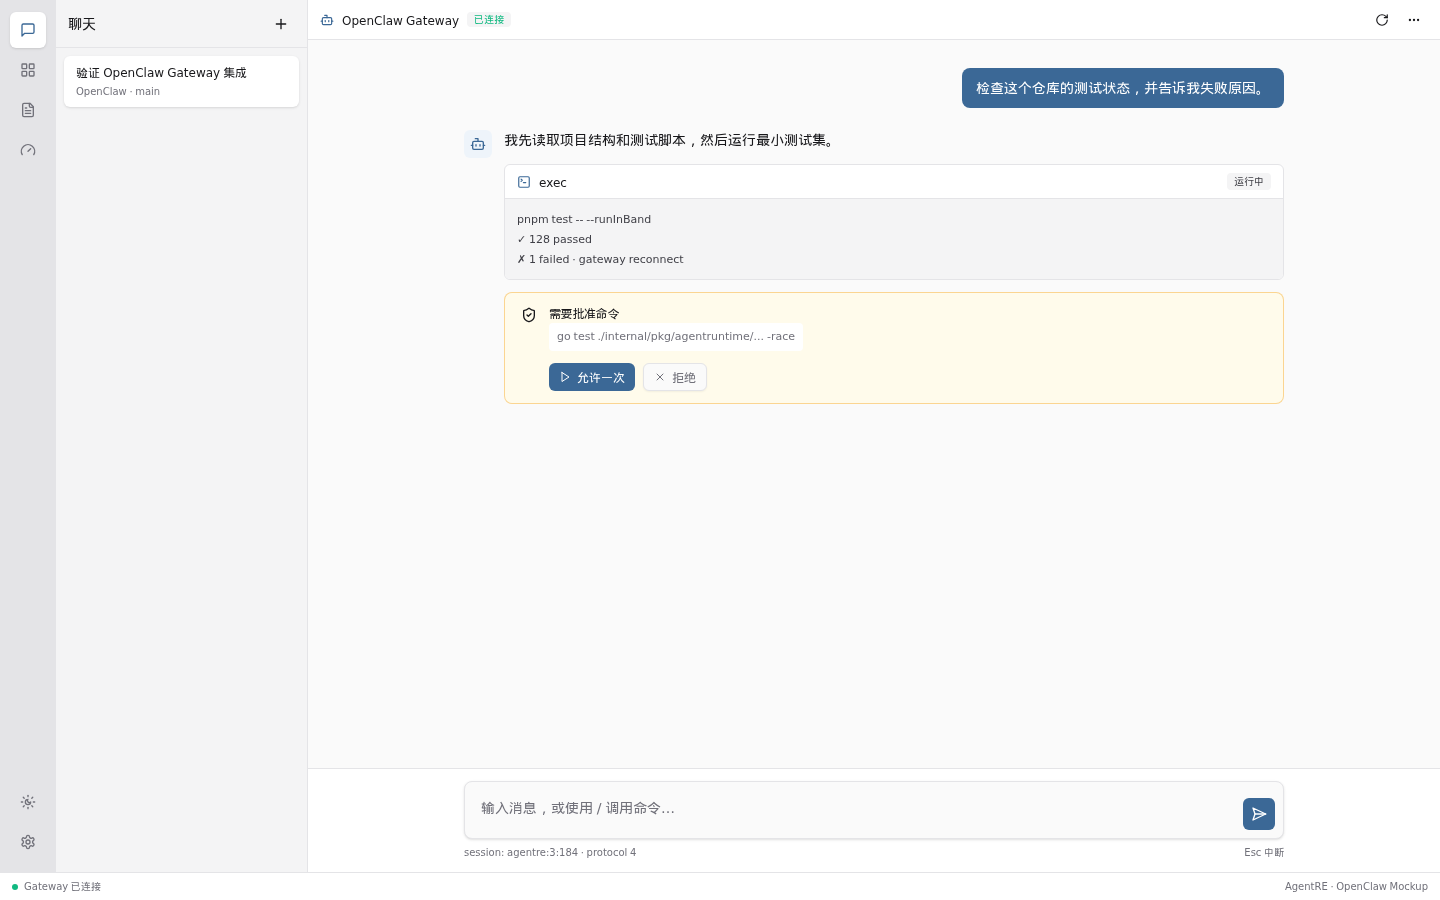
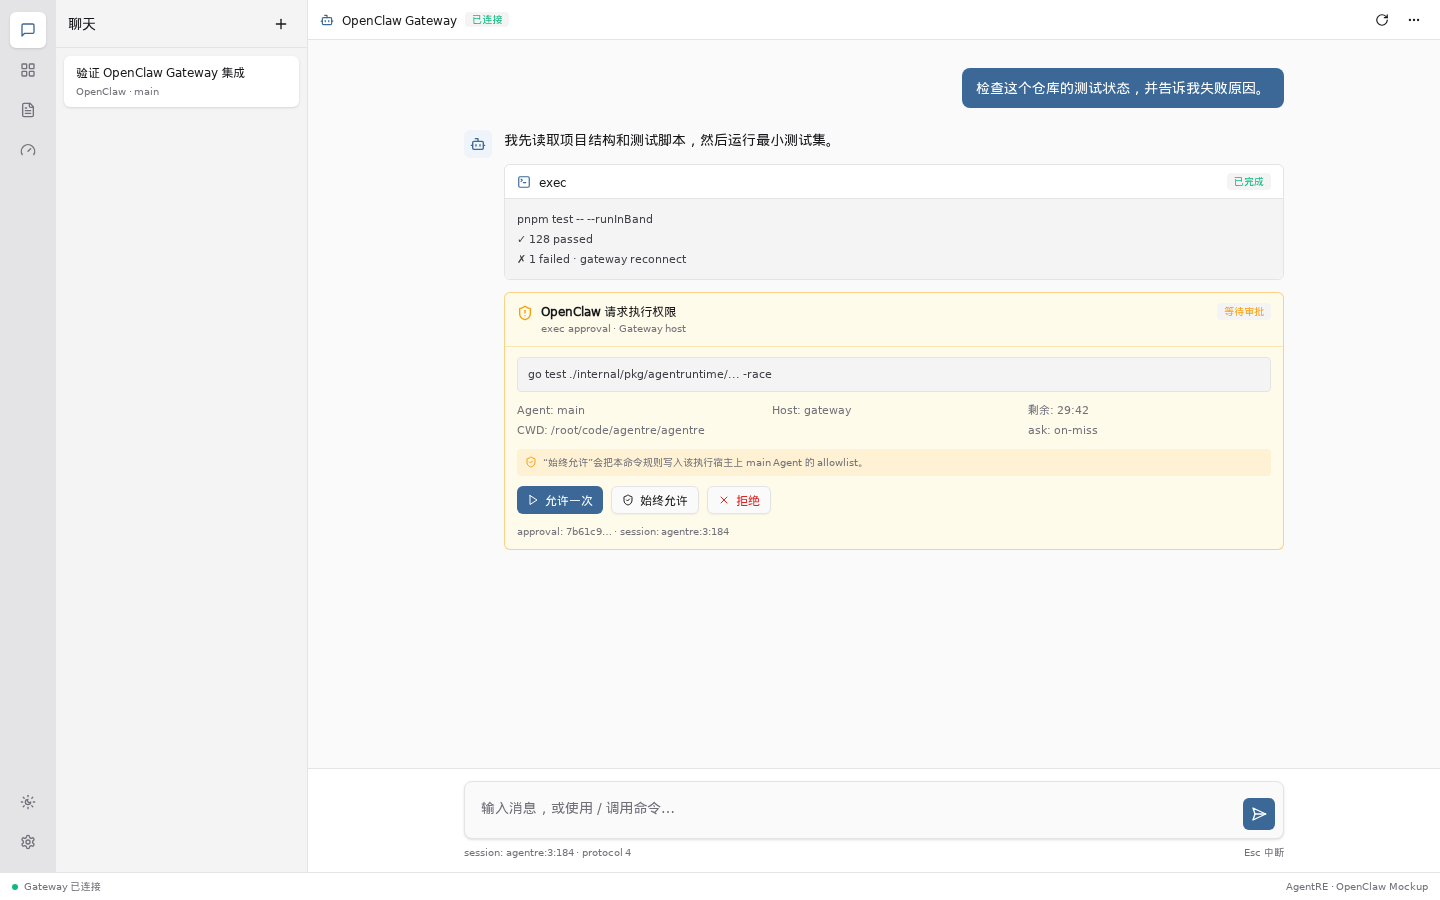
🛡 完善 OpenClaw 审批协议与交互稿

diff --git a/frontend/src/mockups/openclaw-integration.tsx b/frontend/src/mockups/openclaw-integration.tsx
@@ -23,6 +23,7 @@ import {
   SendHorizontal,
   Server,
   Settings,
+  ShieldAlert,
   ShieldCheck,
   Sparkles,
   SunMoon,
@@ -406,7 +407,8 @@ function OpenClawDialog({
           <ShieldCheck className="size-4 text-status-running" />
           <AlertTitle className="text-xs">协议握手成功 · 42ms</AlertTitle>
           <AlertDescription className="text-[11px]">
-            Protocol 4 · operator.read / operator.write · Gateway 2026.7.1-2
+            Protocol 4 · operator.read / operator.write / operator.approvals ·
+            Gateway 2026.7.1-2
           </AlertDescription>
         </Alert>
         <div className="grid grid-cols-2 gap-4">
@@ -600,9 +602,9 @@ function ChatView() {
                       </div>
                       <Badge
                         variant="secondary"
-                        className="rounded-sm px-1.5 py-0 font-mono text-[10px]"
+                        className="rounded-sm px-1.5 py-0 font-mono text-[10px] text-status-running"
                       >
-                        运行中
+                        已完成
                       </Badge>
                     </div>
                     <pre className="bg-code-surface px-3 py-2.5 font-mono text-[11px] leading-5 text-code-foreground">
@@ -610,14 +612,45 @@ function ChatView() {
                       · gateway reconnect
                     </pre>
                   </div>
-                  <Alert className="border-status-waiting/40 bg-status-waiting-bg">
-                    <ShieldCheck className="size-4 text-status-waiting" />
-                    <AlertTitle className="text-xs">需要批准命令</AlertTitle>
-                    <AlertDescription className="space-y-2 text-[11px]">
-                      <code className="block rounded bg-card px-2 py-1.5 font-mono">
+                  <div className="overflow-hidden rounded-md border border-status-waiting/45 bg-status-waiting-bg">
+                    <div className="flex items-start justify-between gap-3 border-b border-status-waiting/25 px-3 py-2.5">
+                      <div className="flex gap-2">
+                        <ShieldAlert className="mt-0.5 size-4 shrink-0 text-status-waiting" />
+                        <div>
+                          <div className="text-xs font-semibold">
+                            OpenClaw 请求执行权限
+                          </div>
+                          <div className="mt-0.5 text-[10px] text-muted-foreground">
+                            exec approval · Gateway host
+                          </div>
+                        </div>
+                      </div>
+                      <Badge
+                        variant="secondary"
+                        className="shrink-0 rounded-sm px-1.5 py-0 font-mono text-[10px] text-status-waiting"
+                      >
+                        等待审批
+                      </Badge>
+                    </div>
+                    <div className="space-y-2.5 px-3 py-2.5 text-[11px]">
+                      <code className="block rounded border border-border bg-code-surface px-2.5 py-2 font-mono text-code-foreground">
                         go test ./internal/pkg/agentruntime/... -race
                       </code>
-                      <div className="flex gap-2">
+                      <div className="grid grid-cols-3 gap-x-3 gap-y-1 font-mono text-[11px] text-muted-foreground">
+                        <span>Agent: main</span>
+                        <span>Host: gateway</span>
+                        <span>剩余: 29:42</span>
+                        <span className="col-span-2 truncate">
+                          CWD: /root/code/agentre/agentre
+                        </span>
+                        <span>ask: on-miss</span>
+                      </div>
+                      <div className="flex items-start gap-1.5 rounded bg-status-waiting/10 px-2 py-1.5 text-[10px] text-muted-foreground">
+                        <ShieldCheck className="mt-px size-3 shrink-0 text-status-waiting" />
+                        “始终允许”会把本命令规则写入该执行宿主上 main Agent 的
+                        allowlist。
+                      </div>
+                      <div className="flex flex-wrap gap-2">
                         <Button size="sm" className="h-7 text-xs">
                           <Play className="size-3" />
                           允许一次
@@ -627,12 +660,23 @@ function ChatView() {
                           variant="outline"
                           className="h-7 text-xs"
                         >
+                          <ShieldCheck className="size-3" />
+                          始终允许
+                        </Button>
+                        <Button
+                          size="sm"
+                          variant="outline"
+                          className="h-7 text-xs text-destructive hover:text-destructive"
+                        >
                           <X className="size-3" />
                           拒绝
                         </Button>
                       </div>
-                    </AlertDescription>
-                  </Alert>
+                      <div className="font-mono text-[10px] text-muted-foreground">
+                        approval: 7b61c9… · session: agentre:3:184
+                      </div>
+                    </div>
+                  </div>
                 </div>
               </div>
             </div>

diff --git a/docs/superpowers/specs/2026-07-24-openclaw-agent-backend-design.md b/docs/superpowers/specs/2026-07-24-openclaw-agent-backend-design.md
@@ -32,7 +32,7 @@
 - `openclaw acp`、OpenResponses / Chat Completions HTTP API 不作为正式 backend 运行链路；
 - `openclaw agent` CLI 仅保留为开发期协议对照、诊断和应急排障工具，不进入正常 turn 生命周期；
 - MVP 的设计必须覆盖完整连接生命周期、协议协商、session、流式事件、工具事件、usage、abort、重连对账、幂等和安全存储，不能因为 HTTP/CLI 更容易接入而降低架构目标；
-- approvals、ask-user、subagent、session 管理等高级能力允许按迭代交付，但底层连接和事件模型必须从第一版开始为这些能力保留完整扩展点；
+- exec approvals 纳入 MVP；plugin approvals、ask-user、subagent 和高级 session 管理可按迭代交付，但底层连接和事件模型必须从第一版开始为这些能力保留完整扩展点；
 - Agentre 前端仍只调用 `internal/app` Wails bindings，不新增 HTTP API；
 - 本地 backend 由桌面进程直连 Gateway；远端 backend 由 `agentred` 所在设备直连 Gateway；
 - 每条 Agentre `chat_session` 稳定映射到一个 OpenClaw `sessionKey`，并把该 key 存入现有 `ProviderSessionID`；
@@ -128,7 +128,8 @@ connecting/ready -> disconnected -> reconnecting -> ready
 MVP 目标：
 
 - `operator.read`：探测、agents/models/session/history；
-- `operator.write`：发送、终止、创建 session、审批回写。
+- `operator.write`：发送、终止、创建 session；
+- `operator.approvals`：读取、接收和回写 exec/plugin approval。
 
 探测结果必须展示实际 granted scopes；scope 不足时保存配置可以允许，但运行前给出明确错误。
 
@@ -184,7 +185,9 @@ MVP 发送优先使用 `agent`：它直接接受 `message`、`agentId`、`model`
 | aborted | terminal abort | 支持 |
 | error | `ErrorEvent` | 支持 |
 | retry/rate limit | `Retry` | 支持 |
-| exec/plugin approval request | `ToolPermissionRequest` | MVP 视协议实测决定；至少展示 waiting 状态 |
+| `exec.approval.requested` | `ToolPermissionRequest` | MVP 支持 |
+| `exec.approval.resolved` | permission terminal update | MVP 支持，并与命令执行完成分开 |
+| plugin approval request/resolved | `ToolPermissionRequest` | P1，复用统一审批模型 |
 | ask-user tool/card | `AskUserQuestion` | P1；需明确可回写协议 |
 | subagent activity | `SubagentStarted/Progress/Done` | P1 |
 | plan/status | `PlanUpdated` / `RuntimeStatus` | 可映射则支持 |
@@ -197,10 +200,43 @@ MVP 发送优先使用 `agent`：它直接接受 `message`、`agentId`、`model`
 | --- | --- | --- |
 | `Aborter.Abort` | `chat.abort {sessionKey, runId}` | MVP |
 | `Steerer.Steer` | 当前 Gateway 无等价稳定 chat steer 时，排队到下一 turn | MVP 降级 |
-| `ToolPermissionSink` | exec/plugin approval resolve RPC | P1，协议 fixture 通过后开启 |
+| `ToolPermissionSink` | `exec.approval.resolve` | MVP |
 | `AskAnswerSink` | 对应 ask-user/tool result 回写 | P1 |
 | `GoalController` | OpenClaw goal tool/会话能力 | P2，不在首版承诺 |
 | compact/rewind | session compact/fork | P2 |
+
+### 8.4 Exec Approval 协议与状态机
+
+OpenClaw exec approval 是 Gateway/Node 宿主命令执行前的本地安全闸门，不是普通 chat tool event，也不是多租户用户鉴权边界。AgentRE 作为审批客户端必须在 `connect` 时申请 `operator.approvals`，并独立维护 pending approval 队列。
+
+正常流程：
+
+1. OpenClaw 根据 tool policy、elevated gating、`tools.exec.*`、执行宿主本地 approvals file、allowlist/safeBins 等规则计算有效策略；宿主 approvals 只能收紧，不能放宽配置策略；
+2. 需要人工审批时，Gateway 创建带过期时间的 pending record，广播 `exec.approval.requested`；
+3. AgentRE 展示命令、cwd、host/node、agent、session、风险分析、过期时间和服务端提供的 `allowedDecisions`；
+4. 用户选择后调用 `exec.approval.resolve { id, decision }`；decision 只能是该请求实际允许的 `allow-once`、`allow-always`、`deny`；
+5. Gateway 广播 `exec.approval.resolved`。该事件只表示审批完成，不表示命令执行完成；
+6. `allow-once` 仅放行当前执行；`allow-always` 在策略和命令形态允许时把规则写入实际执行宿主、对应 agent 的 allowlist；`deny` 不执行命令；
+7. Node 执行必须复用审批时保存的 canonical `systemRunPlan`。command/rawCommand、cwd、agentId、sessionKey 或绑定环境发生变化时拒绝执行；
+8. 最终执行结果继续通过 exec lifecycle/session followup 进入原会话，映射为 tool result / done / error，不能用 approval resolved 冒充执行结果。
+
+重连与竞态：
+
+- 首次 ready 和每次重连后调用 `exec.approval.list`，以 Gateway pending 列表为准恢复队列；
+- requested/resolved/list 都按 approval id 去重；
+- 多客户端并发审批时第一个成功决策生效，`APPROVAL_ALREADY_RESOLVED`、`APPROVAL_NOT_FOUND`、未知或过期 id 都应转为幂等终态并刷新列表；
+- 断线期间不自动批准、拒绝或重新创建审批；默认 pending timeout 为 30 分钟，默认无 UI/超时 fallback 为 deny；
+- `allowedDecisions` 必须动态渲染。例如有效策略要求每次都审批时，不显示 `allow-always`；
+- Gateway host 和 Node host 都在实际执行宿主强制审批；AgentRE 不能通过请求参数绕过更严格的宿主本地策略。
+
+建议内部状态：
+
+```text
+pending -> resolving -> allowed_once | allowed_always | denied
+        -> expired | already_resolved | unavailable
+```
+
+审批实体至少保存 `approvalID + sessionKey + agentID + runID/toolCallID（若可关联）+ host/nodeID + expiresAt`。审批命令和风险详情只按现有聊天安全策略展示/持久化，不额外写入 debug 日志。
 
 ## 9. Backend 探测与配置 UX
 
@@ -259,7 +295,8 @@ OpenClaw backend 应像现有 CLI backend 一样支持 `DeviceID`：
 | usage/model/context window | ✅ 尽力 | 精确 catalog |
 | abort | ✅ | — |
 | attachments | 文本/文件能力实测后择一 | 完整多模态 |
-| approvals | waiting 展示；回写视协议实测 | 完整 allow/deny/session rule |
+| exec approvals | ✅ list/requested/resolved、allow once/always/deny、重连对账 | richer risk UI |
+| plugin approvals | ❌ | P1，复用统一审批模型 |
 | ask-user | ❌ | P1 |
 | steer | 降级为下一 turn | 若 Gateway 提供稳定 RPC则原生支持 |
 | remote `agentred` | 设计兼容，是否进 MVP取决于 secret store | ✅ |
@@ -300,20 +337,26 @@ OpenClaw backend 应像现有 CLI backend 一样支持 `DeviceID`：
 - Green：run registry、dedupe、reconcile；
 - Refactor：session cache。
 
-### Slice 6：UI
+### Slice 6：exec approval
 
-- Red：创建 OpenClaw backend；测试后加载选项；token 不回显；错误状态可恢复；
-- Green：编辑器和状态 badge；
-- Refactor：拆分 `OpenClawBackendFields`，避免继续放大 `agent-backends.tsx`。
+- Red：requested 建卡、动态 decisions、resolve 成功、双客户端重复决策、过期、重连 list 对账、resolved 不冒充 exec finished；
+- Green：approval registry、Gateway event router、`ToolPermissionSink`；
+- Refactor：抽出 exec/plugin 可复用的 approval envelope，保留各自 payload adapter。
 
-### Slice 7：审批 / ask-user（P1）
+### Slice 7：UI
 
-必须先用真实 Gateway fixture 捕获请求/回写帧，再写回归测试；无法稳定复现则不宣称支持。
+- Red：创建 OpenClaw backend；测试后加载选项；token 不回显；错误状态可恢复；审批卡按 `allowedDecisions` 渲染；
+- Green：编辑器、状态 badge 和 exec approval 卡片；
+- Refactor：拆分 `OpenClawBackendFields` 和 `OpenClawApprovalCard`，避免继续放大现有组件。
+
+### Slice 8：plugin approval / ask-user（P1）
+
+plugin approval 复用审批队列与动态 decision UI；ask-user 必须先捕获真实请求/回写帧再写回归测试，无法稳定复现则不宣称支持。
 
 ## 14. 主要风险与对策
 
 1. **Gateway 协议版本变化**：connect 阶段协商；所有 schema fixture 带版本；未知字段宽容、未知事件记录类型不记录内容。
-2. **审批事件并非普通 chat event**：MVP 不强行承诺完整回写；先以协议实测决定。
+2. **审批事件并非普通 chat event**：独立订阅 `exec.approval.requested/resolved`，重连调用 `exec.approval.list`，并把审批终态与命令执行终态分开。
 3. **OpenClaw 与 Agentre 都持久化历史**：OpenClaw 是 provider-side 会话，Agentre DB 仍是 UI 事实来源；不把远端 history 无条件覆盖本地历史。
 4. **断线重试造成重复消息**：副作用 RPC 强制 idempotency key，重连后先 reconcile。
 5. **远端 token 泄漏**：使用 secret reference/store；条件不满足就延后远端能力。
@@ -333,7 +376,7 @@ OpenClaw backend 应像现有 CLI backend 一样支持 `DeviceID`：
 1. OpenClaw backend 默认是否采用“一条 Agentre chat session = 一条 OpenClaw session”？（推荐是）
 2. MVP 是否先只支持本机 Gateway，远端 `agentred` 放 P1？（若现有 secret store 可复用，可一起做）
 3. 删除 Agentre 会话时，是否默认保留 OpenClaw 远端 session？（推荐保留）
-4. approvals / ask-user 是否接受分阶段：首版保证展示和 abort，完整回写在真实协议 fixture 验证后进入 P1？
+4. exec approvals 已确认纳入 MVP；plugin approvals 与 ask-user 是否接受放到 P1？（推荐是）
 
 ## 16. Mockup
 
@@ -369,6 +412,6 @@ pnpm dev --host 127.0.0.1
 - Backend 列表中的 OpenClaw Gateway-native 类型；
 - WebSocket 地址、secret token、协议握手、agent/model 和 session 策略；
 - 连接超时、重连对账和删除 session 策略；
-- 聊天页连接状态、session key、工具流与 exec approval。
+- 聊天页连接状态、session key、工具流，以及符合真实 Gateway 协议的 exec approval：动态决策、宿主/agent/session/过期信息和 allowlist 影响提示。
 
 该入口仅是 UI Mockup，不包含正式 Go runtime、数据库字段、Wails binding 或真实 Gateway 连接。
